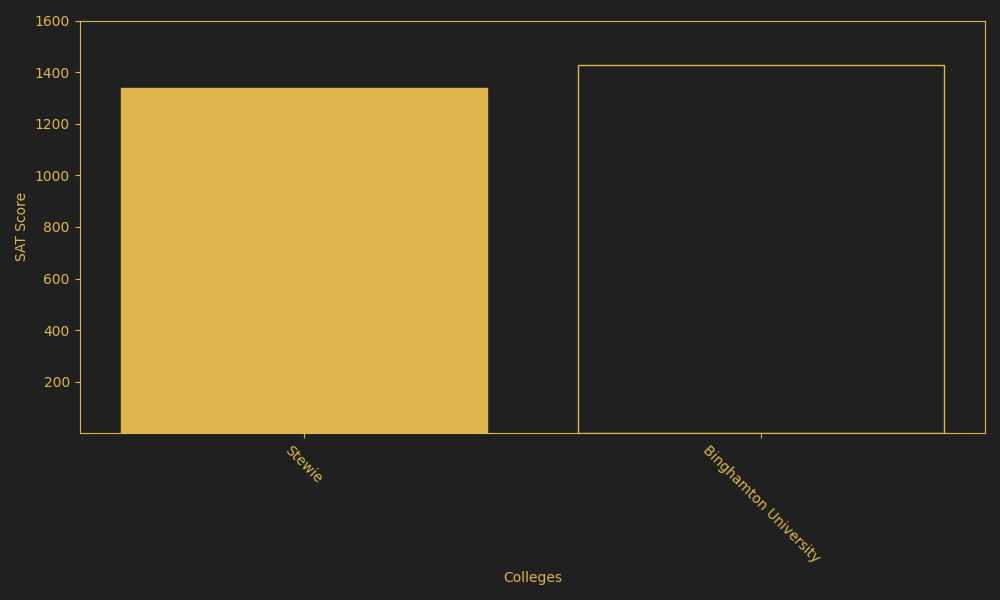
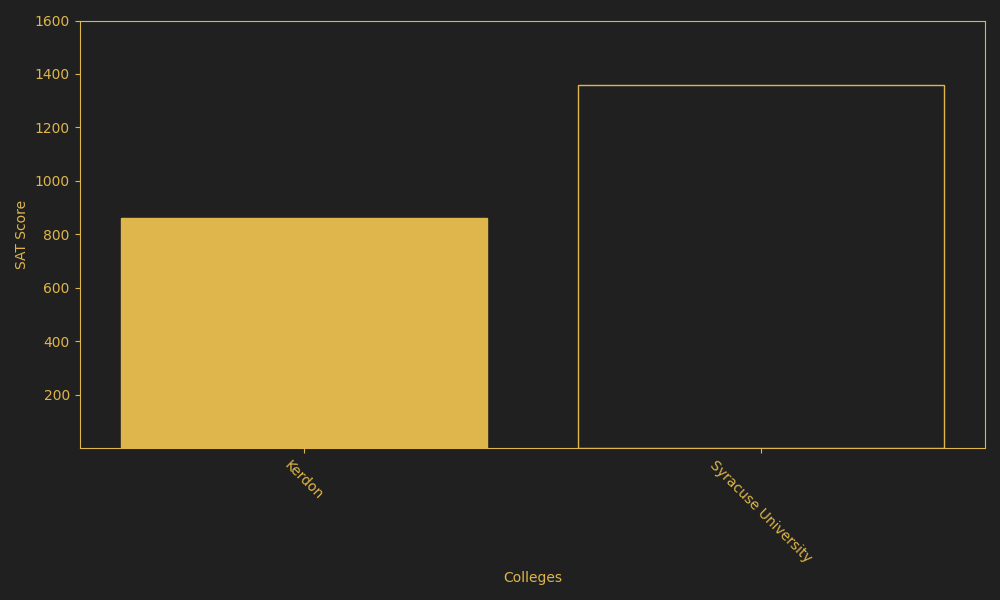
10045 169 change graph generation category (#84)
* Revert "responsiveness remaster on hp (#60)"

This reverts commit 3b47168b7564f888bca23a8949e2a376c67853ba.

* Yuhh

* Complete graph generation
-And embedding the generated graph into flask applictaion

* Graph generation and display done!

* temp

* merge test

* merge test

* Graph generation

* Horray yipee joy!

* Done
+ Fixed empty query on browse page

* Added category switching and formatting for currency

* disabled debugging display

* Fixed merge errors

diff --git a/static/styles/style.css b/static/styles/style.css
@@ -190,9 +190,22 @@ hr {
     border-color: #DEB64B;
 }
 
+.custom-button-inverted {
+    color: #202020;
+    background-color:  #DEB64B;
+    border-color: transparent;
+}
+
 .custom-button:hover {
     color: #202020;
     background-color: #DEB64B;
+
+}
+
+.custom-button-inverted:hover {
+    color: #DEB64B;
+    background-color: #202020;
+    border-color: #DEB64B;
 
 }
 
@@ -250,7 +263,7 @@ hr {
     color: #DEB64B;
 }
 
-.custom-border {
+.custom-border{
     border-color: #DEB64B;
 }
 

diff --git a/main.py b/main.py
@@ -216,9 +216,7 @@ def browse():
     return render_template("browse.html.jinja", colleges=colleges, page=page, query=query, customer_id=customer_id)
     # Note: For now, the database connection and data fetcher are placeholders. This WILL be changed later as neccessary.  
 
-# Analytics page (college and user graphs for comparison and analysis)
-@app.route("/analytics", methods=["Post", "GET"])
-def analytics_page():
+def graph_data(comparing_category):
     
     empty=0
     
@@ -241,25 +239,25 @@ def analytics_page():
     #User id (dynamic)
     customer_id=flask_login.current_user.id
 
-    #Settings for which graph to generate (will change dynamically)
-    comparing_catagory=1
-
     compare_sat=False
     compare_tuition=False
     compare_distance=False
 
-    if comparing_catagory==1:
+    if comparing_category==1:
         compare_sat=True
         comparing="average_sat"
+        category="SAT scores"
         
-    elif comparing_catagory==2:
+    elif comparing_category==2:
         compare_tuition=True
         comparing="tuition"
+        category="Tuition"
         
-    elif comparing_catagory==3:
+    elif comparing_category==3:
         compare_distance=True
-        comparing="tuition_budget"
-
+        comparing="distance"
+        category="Distance"
+        
     if compare_sat==True:
         title="Student SAT Score vs College SAT Admission Requirements"
         
@@ -380,145 +378,79 @@ def analytics_page():
         empty=True
     else:
         empty=False
+    
+    d={}
+    d["colleges"]=colleges
+    d["empty"]=empty
+    d["comparing"]=comparing
+    d["category"]=category
+    d["data"]=data
+    d["names"]=names
+    
+    d["compare_tuition"]=compare_tuition
+    d["compare_sat"]=compare_sat
+    d["compare_distance"]=compare_distance
         
+    return (d)
 
-    return render_template('analytics.html.jinja', colleges=colleges, empty=empty, comparing=comparing)
+# Analytics page (college and user graphs for comparison and analysis)
+@app.route("/analytics", methods=["Post", "GET"])
+def analytics_page():
+
+    comparing_category=request.args.get('category', )
+    
+    if comparing_category==None:
+        comparing_category=1
+    else:
+        comparing_category=int(comparing_category)
+        
+    customer_id=flask_login.current_user.id
+    
+    conn=connect_db()
+    cursor=conn.cursor()
+    
+    cursor.execute(f"""
+                   
+    UPDATE `User`
+    SET `comparing_category` = %s
+    WHERE `id` = %s
+                   
+                   """,(comparing_category,customer_id))
+
+    d=graph_data(comparing_category)      
+
+    return render_template('analytics.html.jinja', colleges=d["colleges"], empty=d["empty"], comparing=d["comparing"], category=d["category"])
 
 @app.route('/plot.png')
 def plot():
-    #User id (dynamic)
+    
+    #Initialization
     customer_id=flask_login.current_user.id
-
-    #Settings for which graph to generate (will change dynamically)
-    comparing_catagory=1
-
-    compare_sat=False
-    compare_tuition=False
-    compare_distance=False
-
-    if comparing_catagory==1:
-        compare_sat=True
-        
-    elif comparing_catagory==2:
-        compare_tuition=True
-        
-    elif comparing_catagory==3:
-        compare_distance=True
-
-    if compare_sat==True:
-        comparing="Student SAT Score vs College SAT Admission Requirements"
-        
-    elif compare_tuition==True:
-        comparing="Student Tuition Budget vs Average College Tuition"
-
-    elif compare_distance==True:
-        comparing="Distance between Colleges and User's Zip Code"
-        
-
-
-    #Database connection
     conn = connect_db()
-    cursor=conn.cursor()
-
-    #Selects college info from every college on the user's list
-    cursor.execute(f"""
-
-    SELECT `name`, `tuition`, `admission_rate`, `average_sat`, `size`, `city`, `state`, `longitude`, `latitude`
-    FROM `CollegeList`
-    LEFT JOIN `Colleges`
-    ON `CollegeList`.`college_id` = `Colleges`.`id`
-    WHERE `CollegeList`.`user_id`= %s 
-            """,(customer_id))
-
-    #Stores college results
-    college_results=cursor.fetchall()
-
-    #Selects user's info based on their id
-    cursor.execute(f"""
-                    
-    SELECT `first_name`, `sat_score`, `tuition_budget`, `zip_code`
-    FROM `User`
-    WHERE `id` = %s  
-                    
-                    """,(customer_id))
-
-    #Stores user info, then converts into a single dictionary
-    student_results=cursor.fetchall()
-    student_results=student_results[0]
-
-    if compare_distance==True:
-        names=[]
-        
-    else:
-        #Initializes name list with first index being the user's name
-        names=[student_results['first_name']]
-
-
-
-    #If each setting is selected, data list is set to the selected data comparisor
-    if compare_sat==True:
-        data=[student_results['sat_score']]
-
-    elif compare_tuition==True:
-        data=[student_results['tuition_budget']]
-
-    if compare_distance==True:
-        data=[]
-
-    print(college_results)
-
-    for college in college_results:
-        names.append(college["name"])
-
-        if compare_sat==True:
-            if college["average_sat"]==None:
-                names.remove(college["name"])
-            else:
-                data.append(college["average_sat"])
-
-        elif compare_tuition==True:
-            if college["tuition"]==None:
-                names.remove(college["name"])
-            else:
-                data.append(college['tuition'])
-                
-        elif compare_distance==True:
-            
-            cursor.execute(f"""
-                        
-            SELECT `lat`, `lng`
-            FROM `Locations`
-            WHERE `zip` = %s               
-                        
-                        """, (student_results['zip_code']))
-            
-            student_coordinates=cursor.fetchone()
-            
-            def haversine(lon1, lat1, lon2, lat2):
-                """
-                Calculate the great circle distance in kilometers between two points 
-                on the earth (specified in decimal degrees)
-                """
-                # convert decimal degrees to radians 
-                lon1, lat1, lon2, lat2 = map(radians, [lon1, lat1, lon2, lat2])
-
-                # haversine formula 
-                dlon = lon2 - lon1 
-                dlat = lat2 - lat1 
-                a = sin(dlat/2)**2 + cos(lat1) * cos(lat2) * sin(dlon/2)**2
-                c = 2 * asin(sqrt(a)) 
-                r = 3956 # Radius of earth in kilometers. Use 3956 for miles. Determines return value units.
-                return c * r
-            
-            print(college_results)
-            print(student_coordinates)
-            
-            print(college['longitude'])
-            print(college['latitude'])
-            
-            data.append(int(haversine(student_coordinates['lng'], student_coordinates['lat'], college['longitude'], college['latitude'])))
-
-    assert data
+    cursor = conn.cursor()
+    
+    #Get the user's compared category from the database
+    cursor.execute("""
+                   
+    SELECT `comparing_category` FROM `User` 
+    WHERE `id`=%s
+                   
+                   """,(customer_id))
+    
+    comparing_category=cursor.fetchone()
+    
+    comparing_category=comparing_category['comparing_category']
+    
+    #Runs the graph data generation script
+    d=graph_data(comparing_category)
+    
+    #Stores data from graph data script
+    names=d["names"]
+    data=d["data"]
+    compare_tuition=d["compare_tuition"]
+    compare_sat=d["compare_sat"]
+    compare_distance=d["compare_distance"]
+    
 
     #Creates figure
     fig=Figure(figsize=(10,6), facecolor='#202020', edgecolor='#ffffff')
@@ -547,17 +479,23 @@ def plot():
     subplot.xaxis.label.set_color('#DEB64B')
     subplot.yaxis.label.set_color('#DEB64B')
     
-    if compare_tuition:
+    #Creates a bar graph in the subplot
+    bar=subplot.bar(names,data,color='#202020', edgecolor='#DEB64B')
+        
+    # Changes the first bar to gold
+    bar[0].set_color('#DEB64B')
+    
+    #Rotates the College labels to 
+    subplot.xaxis.set_tick_params(rotation=315)
+    
+    if compare_tuition==True:
 
         #Label names
         subplot.set_xlabel('Colleges')
         subplot.set_ylabel('Tuition')
         
-        #Creates a bar graph in the subplot
-        bar=subplot.bar(names,data,color='#202020', edgecolor='#DEB64B')
-        
         #Formats to use currency
-        subplot.yaxis.set_major_formatter('${x:1.2f}')
+        subplot.yaxis.set_major_formatter('${x:,.0f}')
     
     elif compare_sat==True:
         
@@ -565,17 +503,9 @@ def plot():
         subplot.set_xlabel('Colleges')
         subplot.set_ylabel('SAT Score')
         
-        # Create a bar graph in the subplot
-        bar=subplot.bar(names,data,color='#202020', edgecolor='#DEB64B')
-        
-        # Changes the first bar to gold
-        bar[0].set_color('#DEB64B')
-        
         # Changes the y label range to fit SAT scores
         subplot.set_yticks((1600, 1400, 1200, 1000, 800, 600, 400, 200))
         
-        #Rotates the College labels to 
-        subplot.xaxis.set_tick_params(rotation=315)
 
     fig.savefig("graph1.png", dpi='figure')
 
